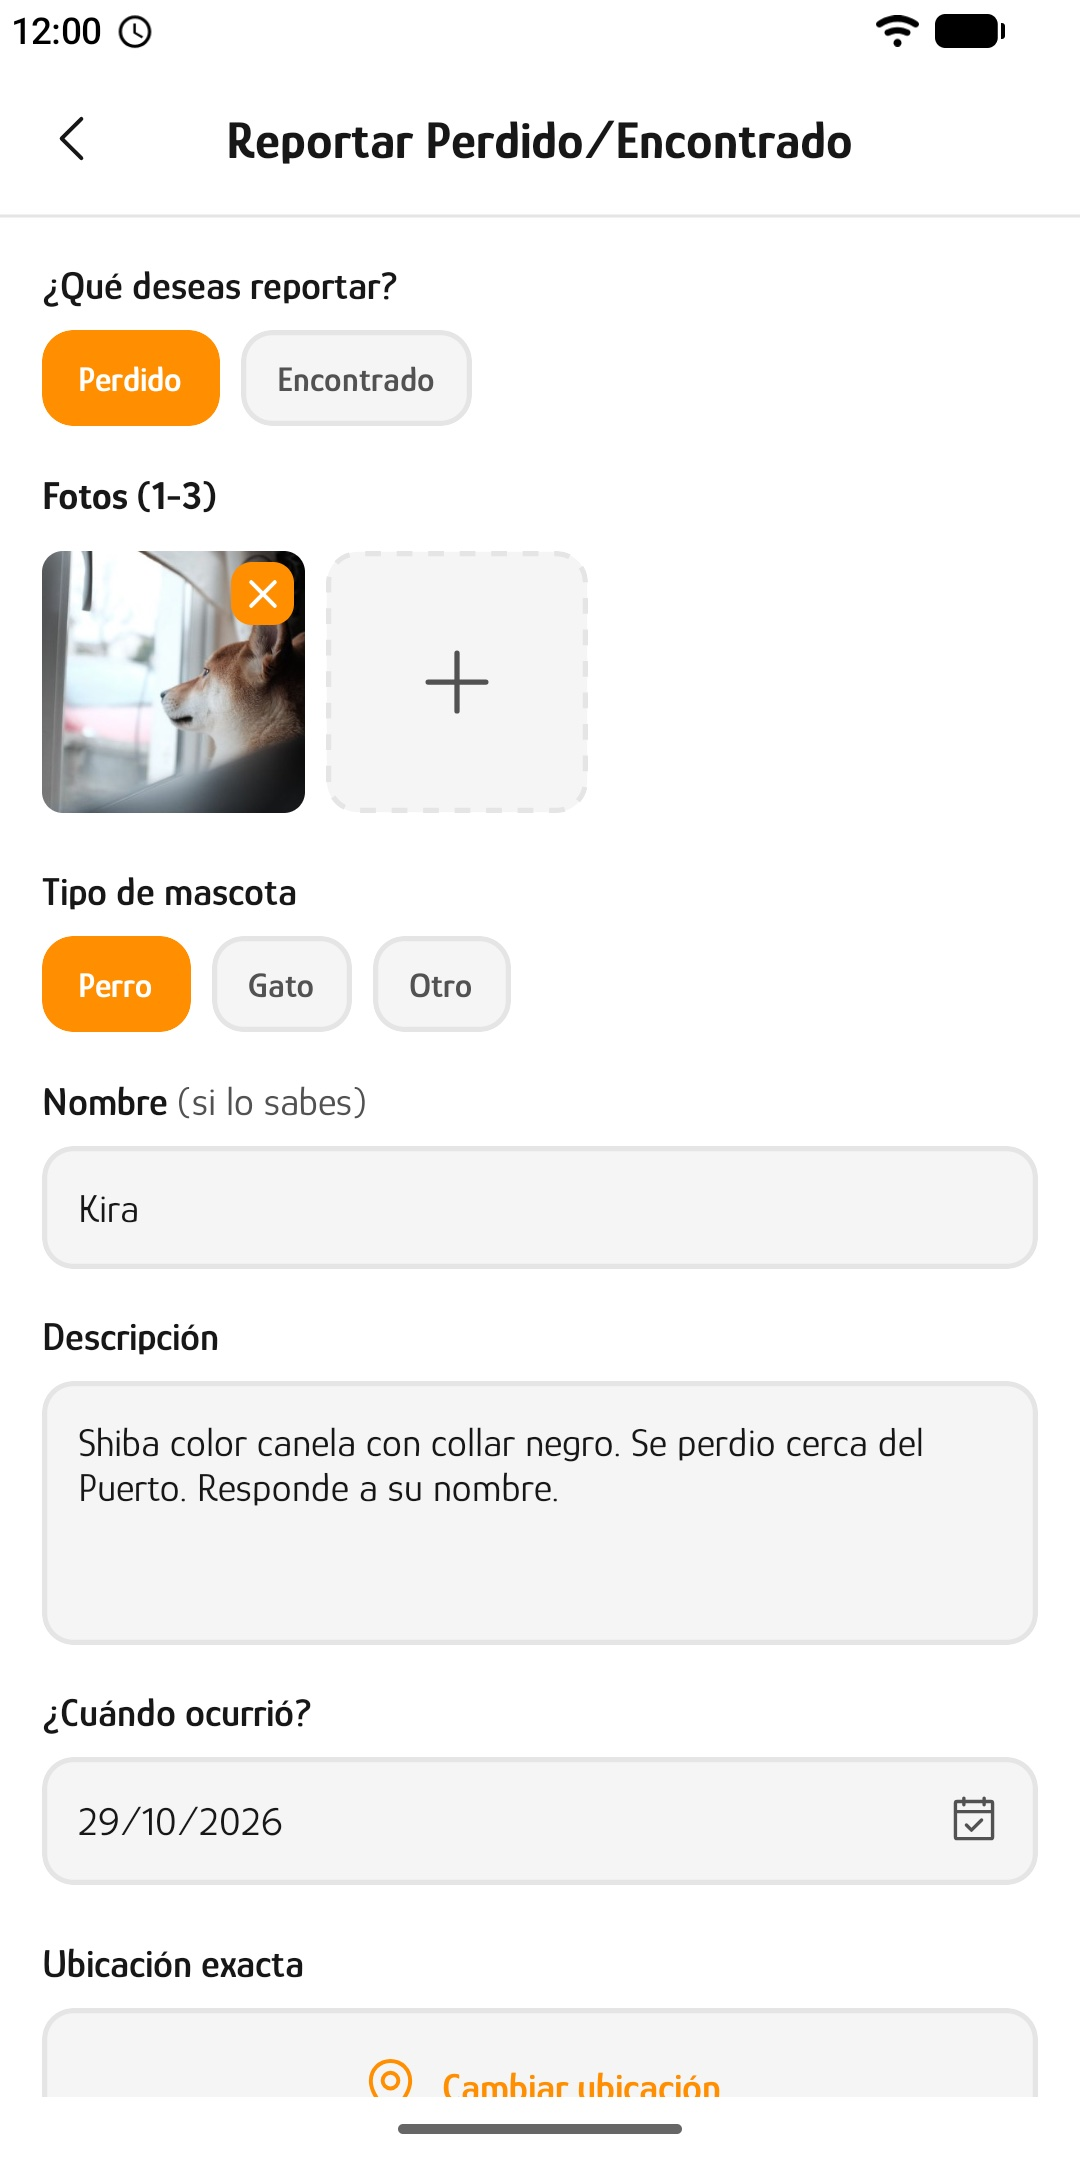
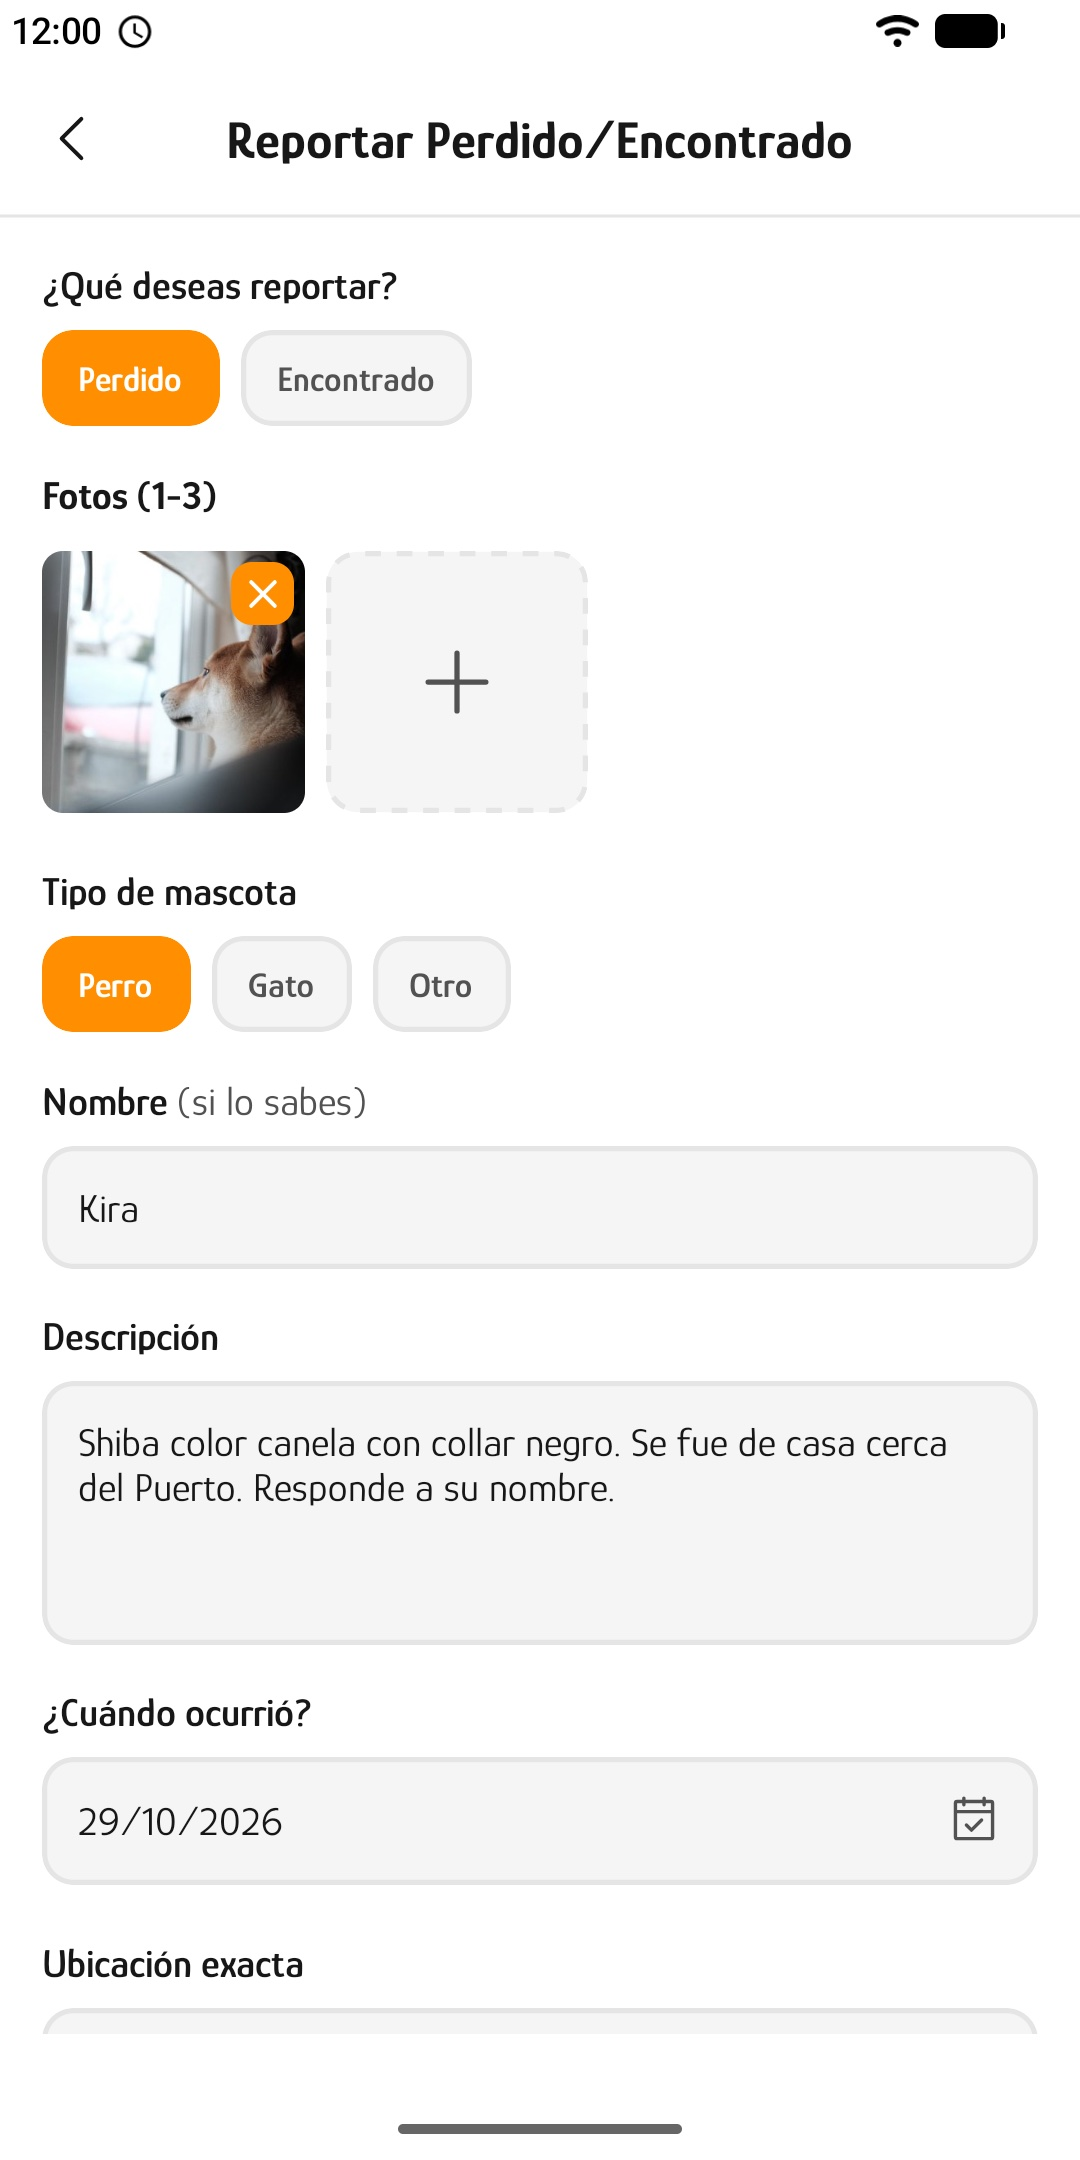
fix(apps): captura del reporte de AquiMascotas sin error de ortografía
La descripción de ejemplo decía "Se perdio" sin tilde (adb no escribe acentos).
Se retoma con un texto sin palabras acentuadas y se actualiza la ruta de los
originales en el log de decisiones (D14).

diff --git a/docs/memoria.html b/docs/memoria.html
@@ -34,7 +34,7 @@
   <tr><td>D11</td><td>Frase de la portada: «Desarrollo de apps web y mobile.» con efecto de tipeo y cursor (una vez por sesión, respeta reduced-motion; el cursor desaparece en &lt; 5 s); menú móvil con space-around.</td><td>✅ 2026-10-28</td></tr>
   <tr><td>D12</td><td>Portada: fuente tecno Share Tech Mono (soporta ñ) en títulos, marca y frase; el tipeo pasa a bucle infinito (escribe, 4,5 s fija, borra, reescribe) y el cursor parpadea siempre. Se acepta apartarse de WCAG 2.2.2 a cambio de reduced-motion + pausa con la pestaña oculta (sin botón de pausa). Reemplaza «una vez por sesión» y «cursor &lt; 5 s» de D11.</td><td>✅ 2026-10-28</td></tr>
   <tr><td>D13</td><td>Fuente del texto: JetBrains Mono 400/600 en lugar de Inter (monoespaciada como los títulos, con ñ). En móvil se achican un escalón el cuerpo (15 px), los botones y el menú para que no se rompan las filas en 320 px.</td><td>✅ 2026-10-30</td></tr>
-  <tr><td>D14</td><td>Capturas de AquiMascotas: 6 JPEG (calidad 85) de 1080×2160 (relación 2:1, el máximo que acepta Google Play), tomadas en el emulador contra el proyecto de desarrollo con publicaciones de ejemplo (fotos CC0 de Wikimedia Commons, datos ficticios). La app solo existe en español, así que la galería en inglés reutiliza las mismas imágenes. Los PNG originales quedan en AquiMascotas/docs/capturas-play.</td><td>✅ 2026-10-30</td></tr>
+  <tr><td>D14</td><td>Capturas de AquiMascotas: 6 JPEG (calidad 85) de 1080×2160 (relación 2:1, el máximo que acepta Google Play), tomadas en el emulador contra el proyecto de desarrollo con publicaciones de ejemplo (fotos CC0 de Wikimedia Commons, datos ficticios). La app solo existe en español, así que la galería en inglés reutiliza las mismas imágenes. Los PNG originales quedan en AquiMascotas/docs/play-store/capturas-originales.</td><td>✅ 2026-10-30</td></tr>
 </table>
 </body>
 </html>
